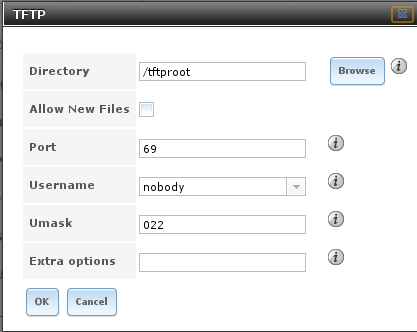
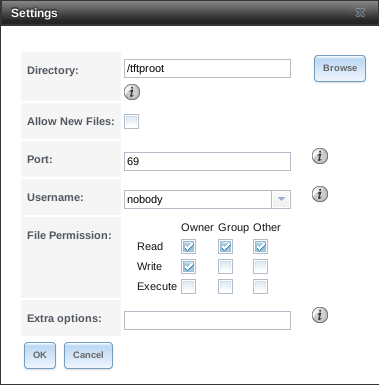
Update legacy FreeNAS and TrueNAS screenshots for TFTP. Ticket: #19397

diff --git a/userguide/services.rst b/userguide/services.rst
@@ -1904,10 +1904,16 @@ available options.
 
 .. _tftp_config_fig:
 
+#ifdef freenas
 .. figure:: images/tftp.png
 
    TFTP Configuration
+#endif freenas
+#ifdef truenas
+.. figure:: images/tn_tftp.png
 
+   TFTP Configuration
+#endif truenas
 
 .. tabularcolumns:: |>{\RaggedRight}p{\dimexpr 0.25\linewidth-2\tabcolsep}
                     |>{\RaggedRight}p{\dimexpr 0.12\linewidth-2\tabcolsep}
@@ -1937,10 +1943,18 @@ available options.
    |                 |               |                                                                                                                          |
    |                 |               |                                                                                                                          |
    +-----------------+---------------+--------------------------------------------------------------------------------------------------------------------------+
+   #ifdef freenas
    | File Permissions| checkboxes    | Set permissions for newly created files. The default is everyone can read and only the owner can write. Some devices     |
    |                 |               | require less strict permissions.                                                                                         |
    |                 |               |                                                                                                                          |
    +-----------------+---------------+--------------------------------------------------------------------------------------------------------------------------+
+   #endif freenas
+   #ifdef truenas
+   | Umask           | checkboxes    | Set permissions for newly created files. The default is everyone can read and only the owner can write. Some devices     |
+   |                 |               | require less strict permissions.                                                                                         |
+   |                 |               |                                                                                                                          |
+   +-----------------+---------------+--------------------------------------------------------------------------------------------------------------------------+
+   #endif truenas
    | Extra options   | string        | Add any additional `tftpd(8) <https://www.freebsd.org/cgi/man.cgi?query=tftpd>`__                                        |
    |                 |               | options not shown in this screen. Add one option on each line.                                                           |
    |                 |               |                                                                                                                          |
